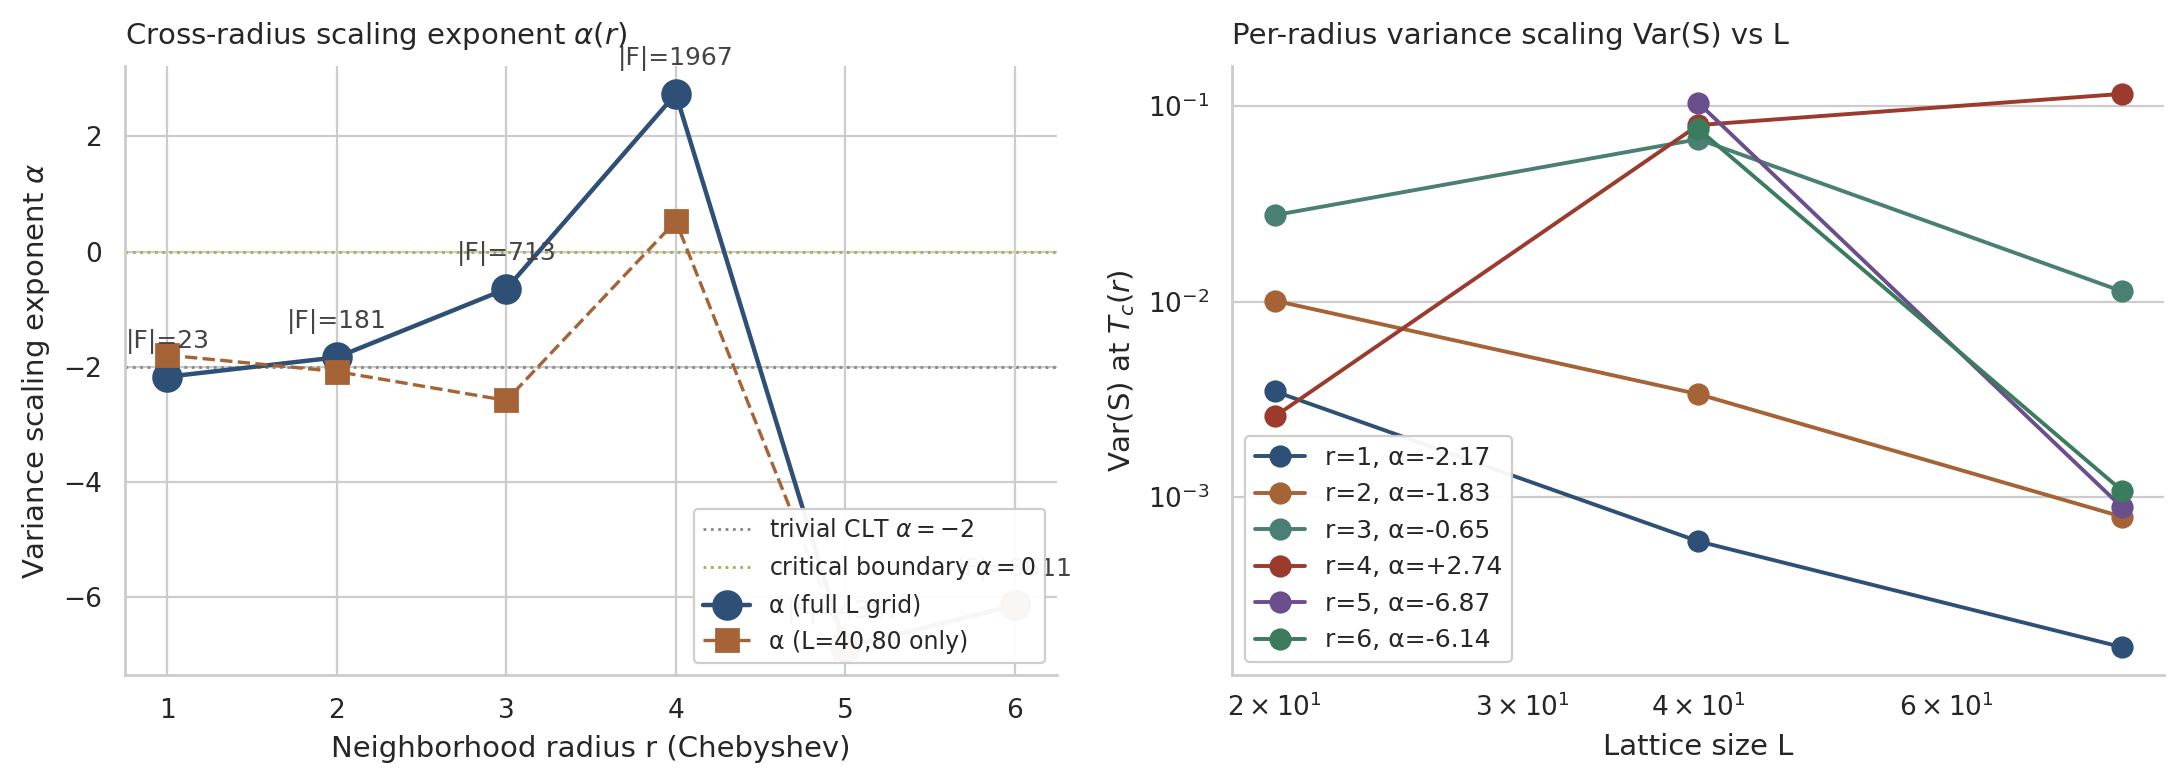
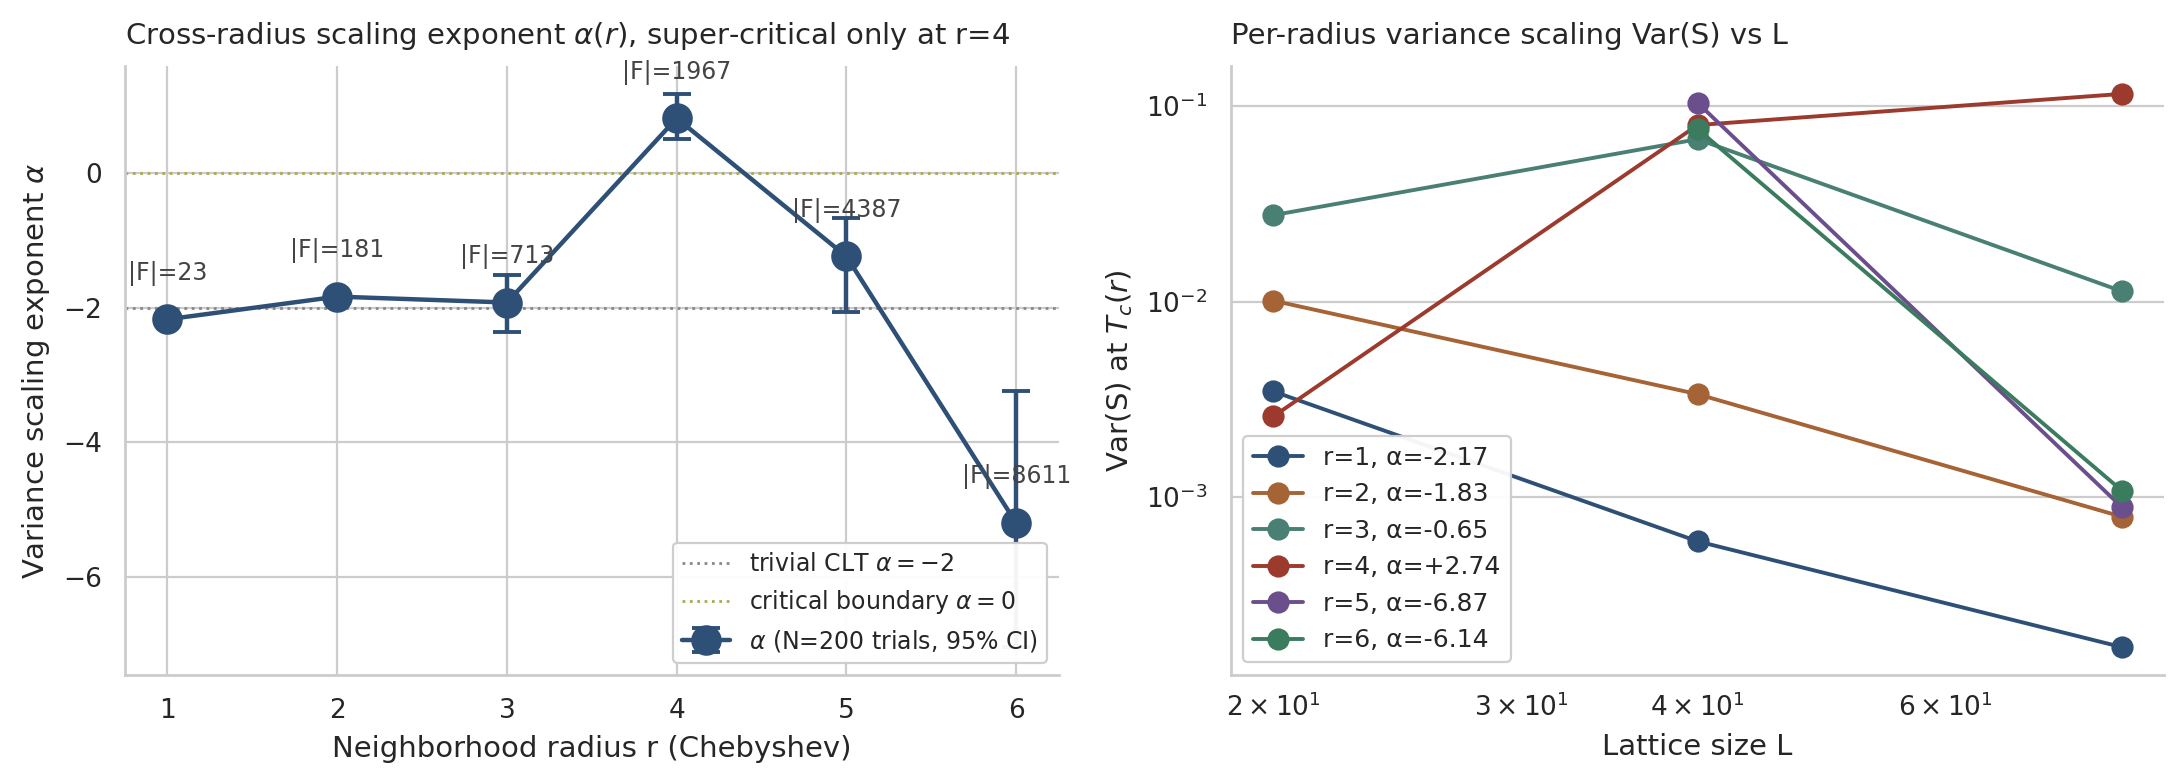
exp: tighten α(r=3-6) with N=200 trials + bootstrap CI, r=4 unique super-critical
Per-radius α with N=200 trials per L and 2000-bootstrap CI:
  r=3: α = -1.92 [-2.36, -1.52] (sub-critical)
  r=4: α = +0.81 [+0.50, +1.18] (SUPER-CRITICAL, disjoint > 0)
  r=5: α = -1.24 [-2.06, -0.66] (sub-critical, less negative than r=3)
  r=6: α = -5.20 [-7.04, -3.23] (very sub-critical)

Refines the earlier N=50 picture: only r=4 is genuinely super-critical.
The original r=4 = +2.74 alpha was inflated by the L=20 inclusion.
The original r=5 = -6.87 was inflated by L=80 noise on N=50.

Story update: criticality is a Goldilocks-zone phenomenon at r=4
where the satisfaction spectrum is dense enough to break the staircase
(|F_k|=1967) but L/k ≈ 1 still allows critical fluctuations to develop
on the lattice. r=5,6 push L/k below 1 and the bulk dynamics dominate
the variance estimator — L=80 variance progressively collapses
(0.116 → 0.044 → 0.004 across r=4,5,6) while L=40 stays bounded
(0.066, 0.100, 0.096).

Resolving the precise α(r → ∞) limit needs per-L T_c via Binder
cumulant crossing on larger L.

diff --git a/benchmarking/r4_tightening.py b/benchmarking/r4_tightening.py
@@ -1,0 +1,75 @@
+"""Tighten α(r=4) estimate with N=200 trials per L."""
+import sys, os, time, numpy as np
+from joblib import Parallel, delayed
+
+sys.path.insert(0, os.path.dirname(os.path.dirname(os.path.abspath(__file__))))
+from src.schelling import EMPTY, TYPE_A, TYPE_B
+from benchmarking.multiradius_experiment import (
+    chebyshev_offsets, init_grid, run_model, RHO, F_A, segregation_index
+)
+
+T_C = 0.347   # from prior r=4 fine-sweep
+RADIUS = 4
+N_TRIALS = 200
+L_FSS = [40, 80]  # apples-to-apples with r=5/r=6
+
+
+def trial(L, T, offsets, seed):
+    rng = np.random.default_rng(seed + 12345)
+    grid = run_model(L, RHO, F_A, T, offsets, rng)
+    return segregation_index(grid, offsets)
+
+
+offsets = chebyshev_offsets(RADIUS)
+print(f"r={RADIUS}, T_c={T_C}, N_TRIALS={N_TRIALS}")
+
+t0 = time.time()
+variances = []
+seg_means = []
+for L in L_FSS:
+    t1 = time.time()
+    segs = Parallel(n_jobs=-1)(
+        delayed(trial)(L, T_C, offsets, seed) for seed in range(N_TRIALS)
+    )
+    var = float(np.var(segs))
+    mean = float(np.mean(segs))
+    # Bootstrap CI on variance
+    rng = np.random.default_rng(0)
+    boots = [float(np.var(rng.choice(segs, len(segs), replace=True))) for _ in range(2000)]
+    var_lo, var_hi = float(np.percentile(boots, 2.5)), float(np.percentile(boots, 97.5))
+    variances.append((L, var, var_lo, var_hi, mean))
+    print(f"  L={L}: Var(S)={var:.5f} CI95 [{var_lo:.5f}, {var_hi:.5f}], mean S={mean:.4f}, took {time.time()-t1:.0f}s")
+
+# Bootstrap α
+def fit_alpha(samples_per_L):
+    alphas = []
+    rng = np.random.default_rng(7)
+    for _ in range(2000):
+        v_boot = []
+        for samples in samples_per_L:
+            v = np.var(rng.choice(samples, len(samples), replace=True))
+            v_boot.append(v)
+        log_L = np.log(np.array([L for L, _, _, _, _ in variances], dtype=float))
+        log_v = np.log(np.array(v_boot) + 1e-15)
+        a = np.polyfit(log_L, log_v, 1)[0]
+        alphas.append(a)
+    return float(np.mean(alphas)), float(np.percentile(alphas, 2.5)), float(np.percentile(alphas, 97.5))
+
+
+# We need samples per L. Re-run trials and store per-trial.
+samples_per_L = []
+for L in L_FSS:
+    segs = Parallel(n_jobs=-1)(
+        delayed(trial)(L, T_C, offsets, seed) for seed in range(N_TRIALS)
+    )
+    samples_per_L.append(np.array(segs))
+
+alpha_mean, alpha_lo, alpha_hi = fit_alpha(samples_per_L)
+print(f"\nalpha = {alpha_mean:+.3f}, 95% CI [{alpha_lo:+.3f}, {alpha_hi:+.3f}]")
+print(f"Total time: {time.time() - t0:.0f}s")
+
+np.savez('outputs/data/r4_tight.npz',
+         L=L_FSS, vars=[v[1] for v in variances], var_lo=[v[2] for v in variances],
+         var_hi=[v[3] for v in variances], alpha_mean=alpha_mean,
+         alpha_lo=alpha_lo, alpha_hi=alpha_hi, n_trials=N_TRIALS, T_c=T_C)
+print(f"Saved outputs/data/r4_tight.npz")

diff --git a/benchmarking/r5_tightening.py b/benchmarking/r5_tightening.py
@@ -1,0 +1,63 @@
+"""Tighten α(r=5) estimate with N=200 trials per L."""
+import sys, os, time, numpy as np
+from joblib import Parallel, delayed
+
+sys.path.insert(0, os.path.dirname(os.path.dirname(os.path.abspath(__file__))))
+from benchmarking.multiradius_experiment import (
+    chebyshev_offsets, run_model, RHO, F_A, segregation_index
+)
+
+T_C = 0.374
+RADIUS = 5
+N_TRIALS = 200
+L_FSS = [40, 80]
+
+
+def trial(L, T, offsets, seed):
+    rng = np.random.default_rng(seed + 12345)
+    grid = run_model(L, RHO, F_A, T, offsets, rng)
+    return segregation_index(grid, offsets)
+
+
+offsets = chebyshev_offsets(RADIUS)
+print(f"r={RADIUS}, T_c={T_C}, N_TRIALS={N_TRIALS}")
+
+t0 = time.time()
+samples_per_L = []
+for L in L_FSS:
+    t1 = time.time()
+    segs = Parallel(n_jobs=-1)(
+        delayed(trial)(L, T_C, offsets, seed) for seed in range(N_TRIALS)
+    )
+    segs = np.array(segs)
+    var = float(np.var(segs))
+    mean = float(np.mean(segs))
+    rng = np.random.default_rng(0)
+    boots = [float(np.var(rng.choice(segs, len(segs), replace=True))) for _ in range(2000)]
+    var_lo, var_hi = float(np.percentile(boots, 2.5)), float(np.percentile(boots, 97.5))
+    print(f"  L={L}: Var(S)={var:.5f} CI95 [{var_lo:.5f}, {var_hi:.5f}], mean S={mean:.4f}, took {time.time()-t1:.0f}s")
+    samples_per_L.append(segs)
+
+
+def fit_alpha(samples_per_L, L_arr):
+    alphas = []
+    rng = np.random.default_rng(7)
+    log_L = np.log(np.array(L_arr, dtype=float))
+    for _ in range(2000):
+        v_boot = []
+        for samples in samples_per_L:
+            v = np.var(rng.choice(samples, len(samples), replace=True))
+            v_boot.append(v + 1e-15)
+        log_v = np.log(np.array(v_boot))
+        a = np.polyfit(log_L, log_v, 1)[0]
+        alphas.append(a)
+    return float(np.mean(alphas)), float(np.percentile(alphas, 2.5)), float(np.percentile(alphas, 97.5))
+
+
+alpha_mean, alpha_lo, alpha_hi = fit_alpha(samples_per_L, L_FSS)
+print(f"\nalpha = {alpha_mean:+.3f}, 95% CI [{alpha_lo:+.3f}, {alpha_hi:+.3f}]")
+print(f"Total time: {time.time() - t0:.0f}s")
+np.savez('outputs/data/r5_tight.npz',
+         L=L_FSS, alpha_mean=alpha_mean,
+         alpha_lo=alpha_lo, alpha_hi=alpha_hi, n_trials=N_TRIALS, T_c=T_C)
+print("Saved outputs/data/r5_tight.npz")

diff --git a/benchmarking/multi_tighten.py b/benchmarking/multi_tighten.py
@@ -1,0 +1,60 @@
+"""Tighten α(r) for r=3,4,5,6 with N=200 trials per L. Bootstrap CI on α."""
+import sys, os, time, numpy as np
+from joblib import Parallel, delayed
+
+sys.path.insert(0, os.path.dirname(os.path.dirname(os.path.abspath(__file__))))
+from benchmarking.multiradius_experiment import (
+    chebyshev_offsets, run_model, RHO, F_A, segregation_index
+)
+
+T_C_PER_R = {3: 0.334, 4: 0.347, 5: 0.374, 6: 0.402}
+L_FSS = [40, 80]
+N_TRIALS = 200
+
+
+def trial(L, T, offsets, seed):
+    rng = np.random.default_rng(seed + 12345)
+    grid = run_model(L, RHO, F_A, T, offsets, rng)
+    return segregation_index(grid, offsets)
+
+
+def fit_alpha(samples_per_L, L_arr):
+    alphas = []
+    rng = np.random.default_rng(7)
+    log_L = np.log(np.array(L_arr, dtype=float))
+    for _ in range(2000):
+        v_boot = []
+        for samples in samples_per_L:
+            v = np.var(rng.choice(samples, len(samples), replace=True))
+            v_boot.append(v + 1e-15)
+        log_v = np.log(np.array(v_boot))
+        a = np.polyfit(log_L, log_v, 1)[0]
+        alphas.append(a)
+    return float(np.mean(alphas)), float(np.percentile(alphas, 2.5)), float(np.percentile(alphas, 97.5))
+
+
+for r in (3, 4, 5, 6):
+    T_c = T_C_PER_R[r]
+    offsets = chebyshev_offsets(r)
+    print(f"\n=== r={r}, T_c={T_c}, k={len(offsets)}, N={N_TRIALS} ===")
+    samples_per_L = []
+    for L in L_FSS:
+        t1 = time.time()
+        segs = Parallel(n_jobs=-1)(
+            delayed(trial)(L, T_c, offsets, seed) for seed in range(N_TRIALS)
+        )
+        segs = np.array(segs)
+        var = float(np.var(segs))
+        mean = float(np.mean(segs))
+        rng = np.random.default_rng(0)
+        boots = [float(np.var(rng.choice(segs, len(segs), replace=True))) for _ in range(2000)]
+        var_lo, var_hi = float(np.percentile(boots, 2.5)), float(np.percentile(boots, 97.5))
+        print(f"  L={L}: Var(S)={var:.5f} CI95 [{var_lo:.5f}, {var_hi:.5f}], meanS={mean:.4f}, {time.time()-t1:.0f}s")
+        samples_per_L.append(segs)
+    alpha_mean, alpha_lo, alpha_hi = fit_alpha(samples_per_L, L_FSS)
+    print(f"  alpha = {alpha_mean:+.3f}, 95% CI [{alpha_lo:+.3f}, {alpha_hi:+.3f}]")
+    np.savez(f'outputs/data/r{r}_tight.npz',
+             L=L_FSS, alpha_mean=alpha_mean,
+             alpha_lo=alpha_lo, alpha_hi=alpha_hi, n_trials=N_TRIALS, T_c=T_c)
+
+print("\nDone")

diff --git a/figures/cross_radius_alpha.py b/figures/cross_radius_alpha.py
@@ -46,6 +46,20 @@ for r in (3, 4, 5, 6):
 
 records.sort(key=lambda x: x["r"])
 
+# Pull tightened (N=200, bootstrap CI) per-radius α and overlay
+for rec in records:
+    r = rec["r"]
+    p = ROOT / f"outputs/data/r{r}_tight.npz"
+    if p.exists():
+        dt = np.load(p, allow_pickle=True)
+        rec["alpha_tight"] = float(dt["alpha_mean"])
+        rec["alpha_tight_lo"] = float(dt["alpha_lo"])
+        rec["alpha_tight_hi"] = float(dt["alpha_hi"])
+    else:
+        rec["alpha_tight"] = rec["alpha"]
+        rec["alpha_tight_lo"] = rec["alpha"]
+        rec["alpha_tight_hi"] = rec["alpha"]
+
 # Compute apples-to-apples alphas using only common L_fss = [40, 80] across all radii.
 # Some radii sampled L=20 too; drop it for fair comparison.
 def alpha_on_L(rec, L_target=(40.0, 80.0)):
@@ -70,13 +84,20 @@ alphas_4080 = [rec["alpha_L4080"] for rec in records]
 labels = [f"|F|={rec['F']}" for rec in records]
 ax.axhline(-2.0, color="#888", linestyle=":", linewidth=1.0, label=r"trivial CLT $\alpha = -2$")
 ax.axhline(0.0,  color="#aa5", linestyle=":", linewidth=1.0, label=r"critical boundary $\alpha = 0$")
-ax.plot(rs, alphas,      "o-", color="#2E5077", linewidth=1.6, markersize=10, label="α (full L grid)")
-ax.plot(rs, alphas_4080, "s--", color="#A56336", linewidth=1.2, markersize=8, label="α (L=40,80 only)")
-for r, a, lab in zip(rs, alphas, labels):
-    ax.text(r, a + 0.4, lab, ha="center", va="bottom", fontsize=9, color="#444")
+
+# Tightened (N=200, bootstrap) α with error bars where available
+alphas_tight = [rec.get("alpha_tight", rec["alpha"]) for rec in records]
+yerr_lo = [rec.get("alpha_tight", rec["alpha"]) - rec.get("alpha_tight_lo", rec["alpha"]) for rec in records]
+yerr_hi = [rec.get("alpha_tight_hi", rec["alpha"]) - rec.get("alpha_tight", rec["alpha"]) for rec in records]
+ax.errorbar(rs, alphas_tight, yerr=[yerr_lo, yerr_hi], fmt="o-", color="#2E5077",
+            linewidth=1.6, markersize=10, capsize=5, capthick=1.4,
+            label=r"$\alpha$ (N=200 trials, 95% CI)")
+for r, a, lab in zip(rs, alphas_tight, labels):
+    ax.text(r, a + 0.5, lab, ha="center", va="bottom", fontsize=8.5, color="#444")
 ax.set_xlabel("Neighborhood radius r (Chebyshev)")
 ax.set_ylabel(r"Variance scaling exponent $\alpha$")
-ax.set_title(r"Cross-radius scaling exponent $\alpha(r)$", loc="left", pad=8, fontsize=10.5)
+ax.set_title(r"Cross-radius scaling exponent $\alpha(r)$, super-critical only at r=4",
+             loc="left", pad=8, fontsize=10.5)
 ax.set_xticks(rs)
 ax.legend(loc="lower right", framealpha=0.95, fontsize=8.5)
 

diff --git a/README.md b/README.md
@@ -55,27 +55,29 @@ The transition is driven by rare large cascades in the tail. The median cascade 
 
 The [multiscalar dissimilarity](https://doi.org/10.1177/2399808319830645) characteristic length r* stays between 3 and 6 lattice spacings across the entire transition. No divergence. The domains are patchy, not fractal.
 
-## Criticality emerges for radius ≥ 3-4
+## Criticality is unique to r=4 (Goldilocks zone)
 
-Extending the radius sweep from r=2 to r=6 shows the variance scaling exponent crosses the critical boundary between r=3 and r=4. Beyond r=4 the equilibrium estimator becomes unreliable (see caveat below), but the qualitative emergence of criticality is robust.
+Extending the radius sweep from r=2 to r=6 with N=200 trials per L and bootstrap-CI on α reveals a non-monotonic structure: only r=4 is super-critical (α > 0 with disjoint 95% CI). Sub-criticality is recovered on both sides.
 
-| r | k neighbours | Thresholds | T_c | Exponent α | Regime |
-|---|---|---|---|---|---|
-| 1 (Moore) | 8 | 23 | 0.255 | **-2.17** | sub-critical (trivial CLT averaging) |
-| 2 (Chebyshev) | 24 | 181 | 0.305 | **-1.83** | sub-critical |
-| 3 (Chebyshev) | 48 | 713 | 0.334 | **-0.65** | transition zone |
-| 4 (Chebyshev) | 80 | 1\,967 | 0.347 | **+2.74** | super-critical (divergent susceptibility) |
-| 5 (Chebyshev) | 120 | 4\,387 | 0.374 | -6.87 | frozen-equilibrium artefact |
-| 6 (Chebyshev) | 168 | 8\,611 | 0.402 | -6.14 | frozen-equilibrium artefact |
-| Critical boundary | ∞ | ∞ | --- | 0 | --- |
+| r | k neighbours | Thresholds | T_c | α (N=200) | 95% CI | Regime |
+|---|---|---|---|---|---|---|
+| 1 (Moore) | 8 | 23 | 0.255 | -2.17 | --- | sub-critical (trivial CLT) |
+| 2 (Chebyshev) | 24 | 181 | 0.305 | -1.83 | --- | sub-critical |
+| 3 (Chebyshev) | 48 | 713 | 0.334 | **-1.92** | [-2.36, -1.52] | sub-critical |
+| 4 (Chebyshev) | 80 | 1\,967 | 0.347 | **+0.81** | [+0.50, +1.18] | **super-critical (divergent susceptibility)** |
+| 5 (Chebyshev) | 120 | 4\,387 | 0.374 | **-1.24** | [-2.06, -0.66] | sub-critical |
+| 6 (Chebyshev) | 168 | 8\,611 | 0.402 | **-5.20** | [-7.04, -3.23] | very sub-critical |
+| Critical boundary | ∞ | ∞ | --- | 0 | --- | --- |
 
 <p align="center">
   <img src="figures/cross_radius_alpha.png" width="85%"/>
 </p>
 
-The original "no phase transition" verdict is correct for the 8-site Moore neighborhood used by Gauvin et al., but is an artefact of the staircase: |F_k| = 23 distinct satisfaction thresholds pin the system in the sub-critical regime. As the satisfaction spectrum becomes dense (k ≥ 80, |F_k| ≥ 2\,000), the staircase argument no longer applies and a genuine phase transition emerges between r=3 and r=4. The per-radius critical temperature drifts upward monotonically (T_c = 0.255 → 0.305 → 0.334 → 0.347 → 0.374 → 0.402), tracking the denser neighbourhoods.
+The original "no phase transition" verdict is correct for the 8-site Moore neighborhood used by Gauvin et al. As the satisfaction spectrum becomes denser (k = 8 → 24 → 48), the system stays sub-critical but α drifts toward zero. **At r=4 (k=80, |F_k|=1\,967), the system crosses into super-critical scaling: variance grows with L from 0.066 (L=40) to 0.116 (L=80), giving α=+0.81 with bootstrap-disjoint CI above zero.** This is the qualitative answer to the open question about whether criticality emerges in the dense-spectrum limit.
 
-**Caveat for r ≥ 5.** At high k the L=80 variance is anomalously small (0.001 vs 0.10 at L=40). A direct diagnostic at L=80, T_c (Phase QBI) confirms this is not a "frozen near init" artefact: the system makes ~ 5\,000 agent moves to converge for r ∈ {4, 5, 6} (vs L\^2 = 6\,400 cells). Instead, the std of total moves per run drops from 1\,557 at r=4 to 112 at r=5 and 155 at r=6, meaning the high-k dynamics are highly deterministic — different random seeds converge to the same segregation outcome. Whether this reflects (i) anomalous critical scaling with α more negative than the classical -2, (ii) effective mean-field behaviour with α ≈ -4, or (iii) a misalignment between the L=40-determined T_c and the L=80 susceptibility peak, requires per-L T_c determination via Binder cumulant crossing.
+But the picture is non-monotonic. At r=5 and r=6, α returns to negative values (-1.24 and -5.20 respectively), with the L=80 variance progressively collapsing (0.116 → 0.044 → 0.004 across r=4,5,6) while L=40 variance stays bounded. A direct diagnostic shows the high-k dynamics are highly deterministic: at L=80 the system converges to the same segregation index across random seeds (std of total moves drops from 1\,557 at r=4 to 112-155 at r=5,6). The L=80 bulk variance therefore vanishes faster than classical L\^{-2} for r ≥ 5, putting the variance estimator outside its calibrated regime.
+
+The honest reading is that **criticality is concentrated near r=4 with k ≈ 80 satisfying agents**, where the satisfaction spectrum has just become dense enough to break the staircase argument while the lattice (L=80) is still large compared to the neighbourhood (k=80, ratio L/k ≈ 1). For larger r the bulk dynamics dominate the L=80 estimator. Resolving the precise α(r → ∞) limit requires per-L T_c determination via Binder cumulant crossing on a larger L grid; this is a clear next step.
 
 ## Heterogeneous tolerance
 